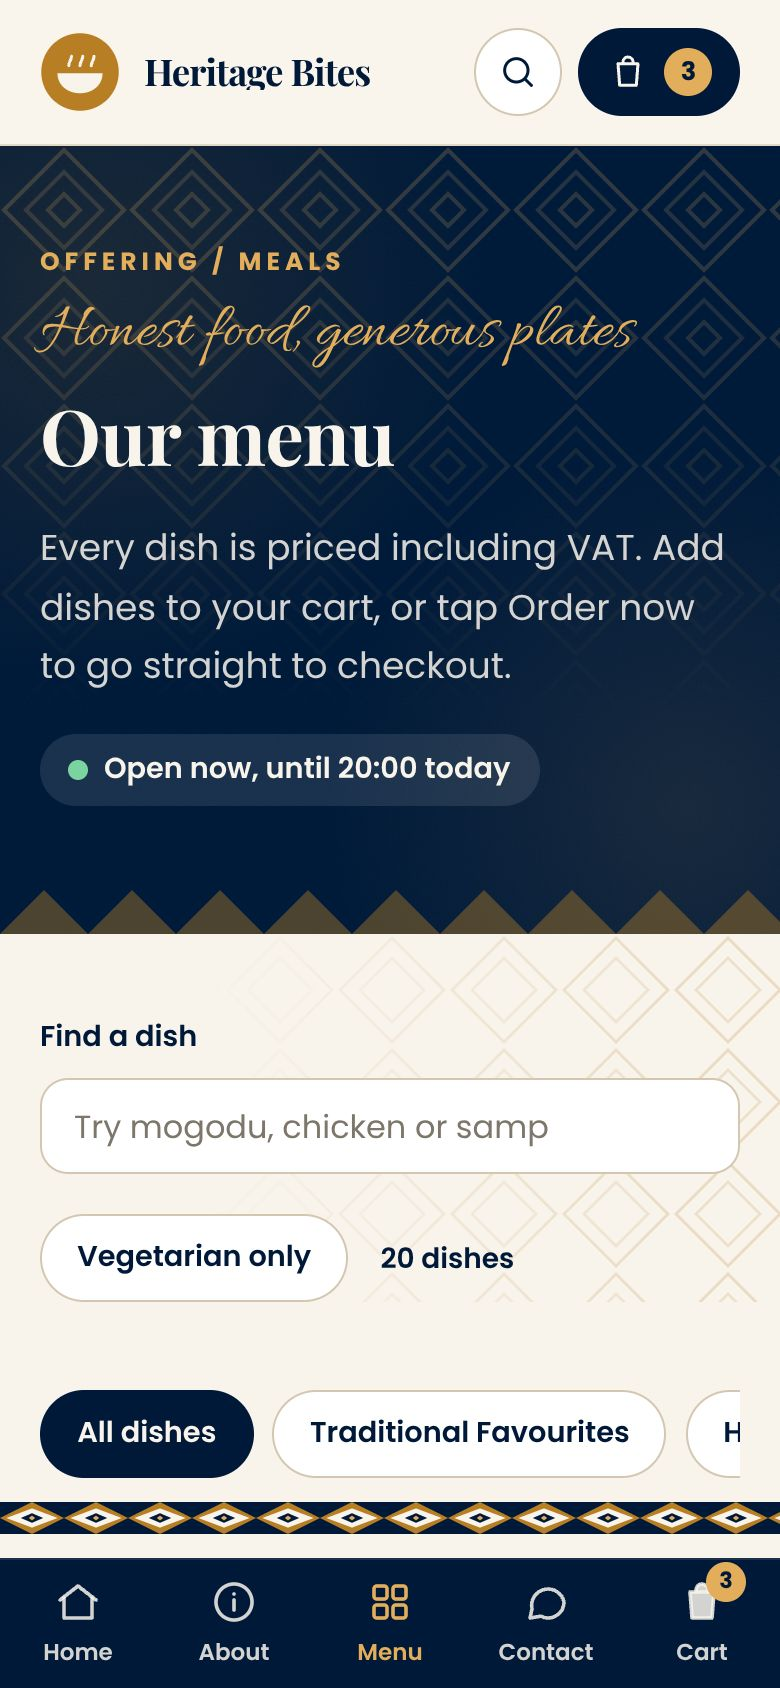
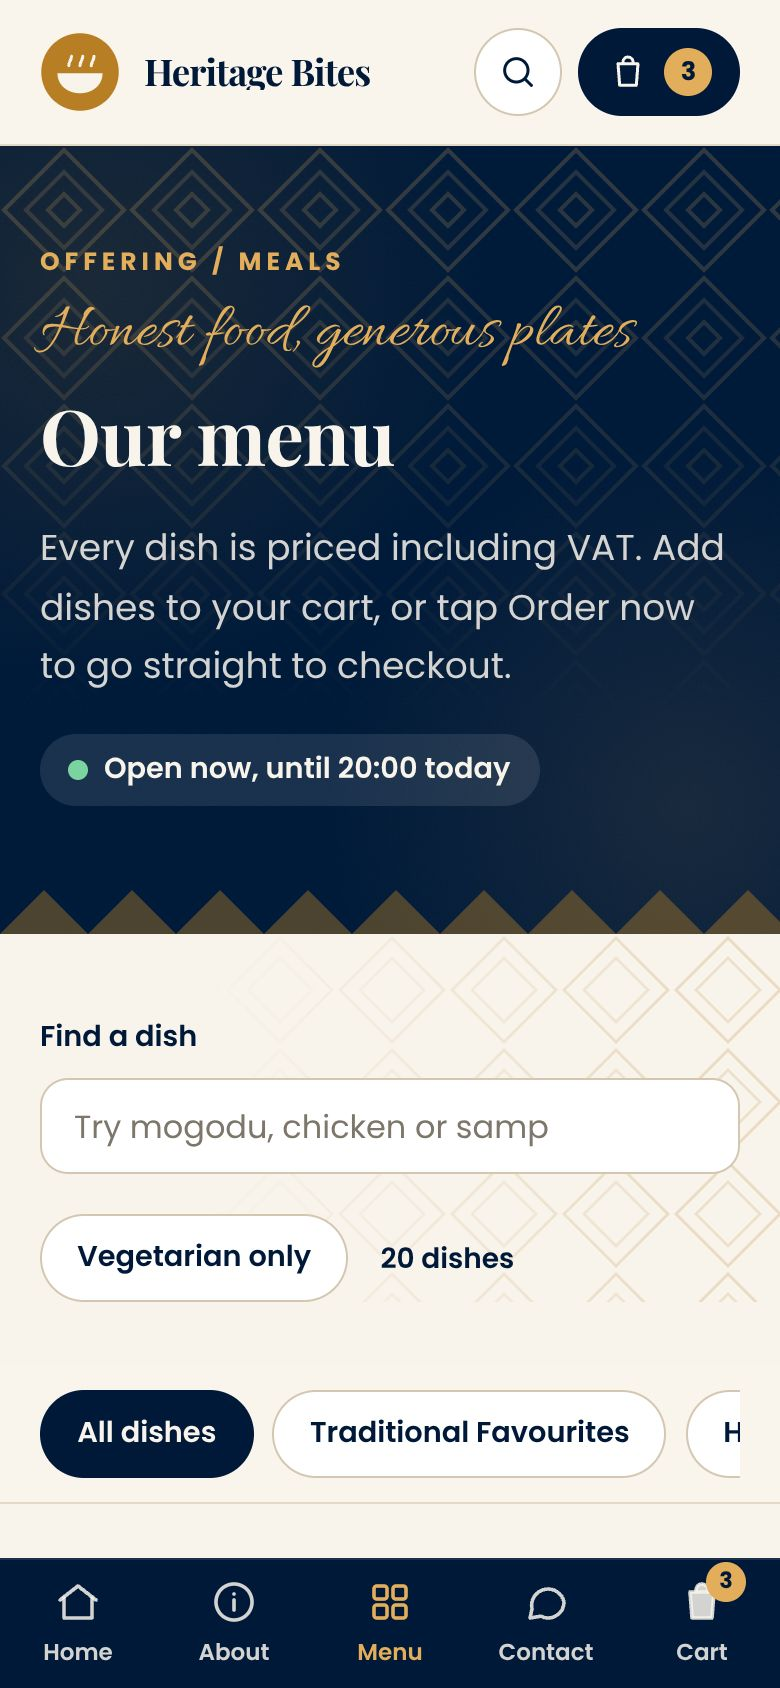
Move the woven strip from the menu category bar to the footer
- The woven strip under the category chips (for example under Sides & Accompaniments) is removed. The category bar keeps a thin border line.
- The footer gets the same strip above the copyright line. Its gold beaded band at the top is unchanged.
- Browser check: the category bar has no strip and the footer has one (117/117). API checks 77/77. Link crawl clean. Review screenshots regenerated.

Changed region(s): [[0.0, 0.8626, 1.0, 0.9242]]

diff --git a/components/menu/MenuBrowser.tsx b/components/menu/MenuBrowser.tsx
@@ -126,7 +126,7 @@ export function MenuBrowser({ categories }: { categories: MenuCategory[] }) {
         </div>
       </div>
 
-      <nav aria-label="Menu categories" className="sticky top-[4.5rem] z-30 mt-8 bg-cream/95 backdrop-blur">
+      <nav aria-label="Menu categories" className="sticky top-[4.5rem] z-30 mt-8 border-b border-line bg-cream/95 backdrop-blur">
         <div className="container-hb">
           <div ref={tabRow} className="chip-row py-3 lg:flex-wrap lg:overflow-visible">
             <a
@@ -152,7 +152,6 @@ export function MenuBrowser({ categories }: { categories: MenuCategory[] }) {
             ))}
           </div>
         </div>
-        <div aria-hidden="true" className="kasi-strip" />
       </nav>
 
       {visible.map((category) =>

diff --git a/components/site/SiteFooter.tsx b/components/site/SiteFooter.tsx
@@ -98,7 +98,8 @@ export function SiteFooter({
         </nav>
       </div>
 
-      <div className="border-t border-white/10">
+      <div aria-hidden="true" className="kasi-strip" />
+      <div>
         <div className="container-hb flex flex-col gap-3 py-5 text-sm text-cream/70 sm:flex-row sm:items-center sm:justify-between">
           <p>© {year} Heritage Bites. All rights reserved.</p>
           <nav aria-label="Help and legal" className="flex flex-wrap gap-x-6 gap-y-2">

diff --git a/README.md b/README.md
@@ -60,7 +60,7 @@ The home page has no events, office lunch or table booking offer, and no separat
 - Categories and dishes are in `lib/seed-data.ts`: six categories (as on heritagebites.co.za) and 20 dishes. Each dish has one to four photos.
 - Every product card has a photo carousel with arrows, dots, a counter, swipe and arrow keys. Each dot shows its own photo.
 - The photos are web photos and must be replaced before launch. See `docs/IMAGE_CREDITS.md`.
-- Heritage vectors: one motif set, drawn in CSS and SVG (see `app/globals.css`), so no image files are needed. Every hero (home, About, Menu, Specials, Contact, checkout, search, privacy and terms) has the diamond lattice on the right and the ochre zigzag along the bottom edge. The menu adds a faint lattice to the filter bar, to each category heading (led by a small ochre diamond) and to the corner of each dish card. Beaded strips run under dish photos, specials photos and the sticky category bar. Category headings have no strip under them.
+- Heritage vectors: one motif set, drawn in CSS and SVG (see `app/globals.css`), so no image files are needed. Every hero (home, About, Menu, Specials, Contact, checkout, search, privacy and terms) has the diamond lattice on the right and the ochre zigzag along the bottom edge. The menu adds a faint lattice to the filter bar, to each category heading (led by a small ochre diamond) and to the corner of each dish card. Beaded strips run under dish photos and specials photos, and in the footer above the copyright line. Category headings and the category bar have none.
 
 ## Ordering and payments
 
